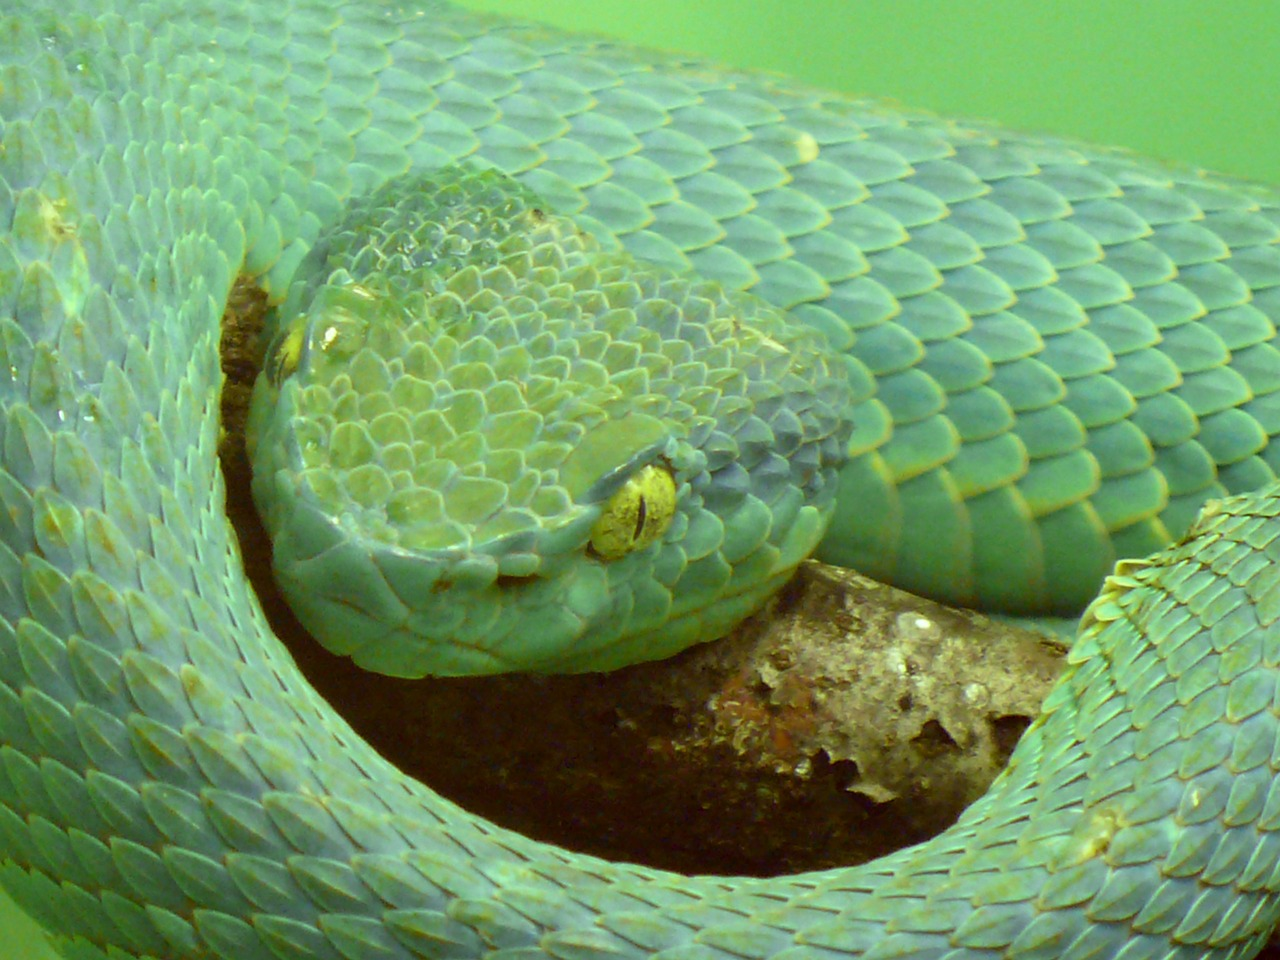
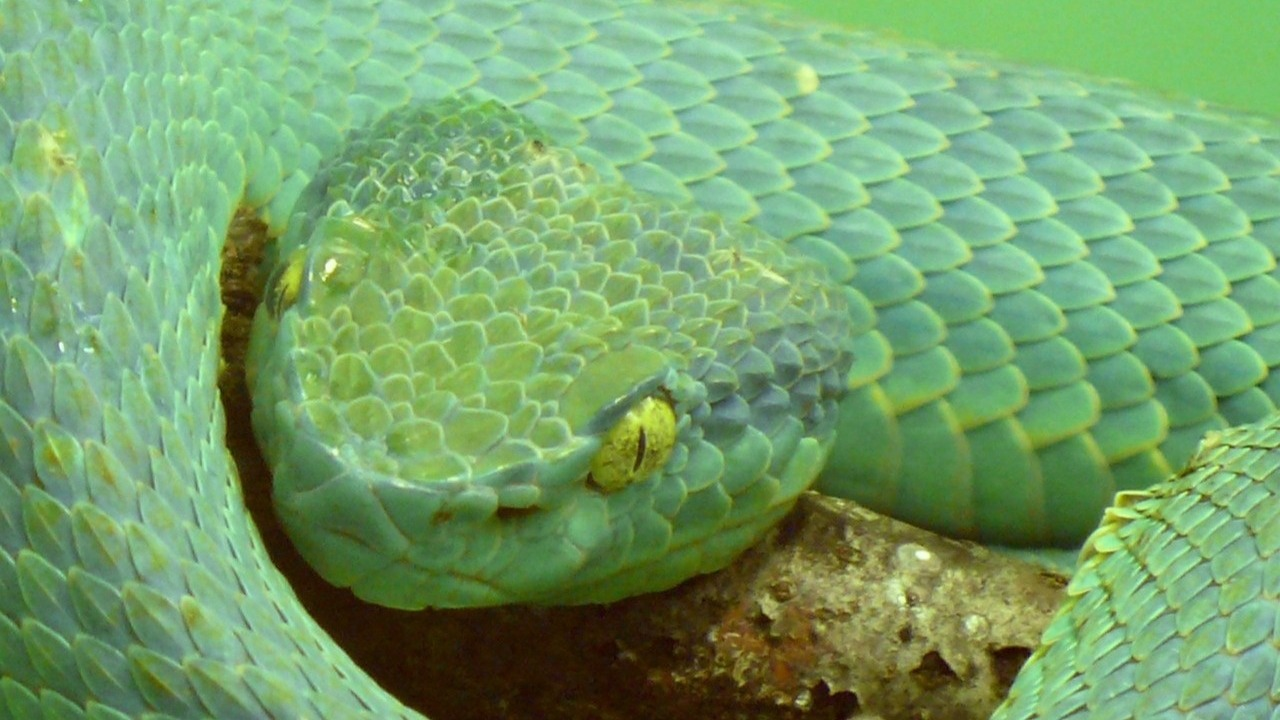
resizes assets, please check mobile responsiveness

diff --git a/snakefo.html b/snakefo.html
@@ -24,10 +24,10 @@
 			<div class="col-12">
 				<div class="row">
 					<h3 id="retic">Reticulated Python</h3>
-					<div class="col-6 order-2">
+					<div class="col-md-6 col-7 order-2">
 						<img src="assets/images/retic.jpg" data-toggle="modal" data-target="#reticmod" class="snakepic">
 					</div>
-					<div class="col-6 order-1">
+					<div class="col-md-6 col-5 order-1">
 						<h5>Classification: <span>Endangered</span></h5>
 						<h5>Endemic: <span>No</span></h5>
 						<h5>Range: <span>Gubat</span></h5>
@@ -47,7 +47,7 @@
 				<div class="row">
 					<h3 id="phcob">Philippine Cobra</h3>
 					<div class="col-md-6 col-7 order-2">
-						<img src="assets/images/phcobra.png" data-toggle="modal" data-target="#phcobmod" class="snakepic">
+						<img src="assets/images/phcob.jpg" data-toggle="modal" data-target="#phcobmod" class="snakepic">
 					</div>
 					<div class="col-md-6 col-5 order-1">					
 						<h5>Classification: <span>Near Threatened</span></h5>
@@ -69,7 +69,7 @@
 				<div class="row">
 						<h3 id="samcob">Samar Cobra</h3>
 					<div class="col-md-6 col-7 order-2">
-						<img src="assets/images/samarcob.jpg" data-toggle="modal" data-target="#srcobmod" class="snakepic">
+						<img src="assets/images/samarcobsm.jpg" data-toggle="modal" data-target="#srcobmod" class="snakepic">
 					</div>
 					<div class="col-md-6 col-5 order-1">
 						<h5>Classification: <span>Least Concern</span></h5>
@@ -179,7 +179,7 @@
 					<span>&times;</span>
 				</button>
 				<figure>
-					<img src="assets/images/phcobra.png" class="snakepic">
+					<img src="assets/images/phcob.jpg" class="snakepic">
 					<figcaption>
 						<p>Image courtesy of wikipedia</p>
 					</figcaption>
@@ -195,7 +195,7 @@
 					<span>&times;</span>
 				</button>
 				<figure>
-					<img src="assets/images/samarcob.jpg" class="snakepic">
+					<img src="assets/images/samarcobsm.jpg" class="snakepic">
 					<figcaption>
 						<p>Image courtesy of wikipedia</p>
 					</figcaption>

diff --git a/snakes.html b/snakes.html
@@ -67,37 +67,37 @@
 				<div class="row">
 					<div class="gbox col-lg-4 col-6 mb-2">
 						<a href="snakefo.html#retic" target="snakeshow">
-							<img src="assets/images/sunglow.jpg" class="w-100">
+							<img src="assets/images/retic.jpg" class="w-100">
 							<h6>Reticulated Python</h6>
 						</a>
 					</div>
 					<div class="gbox col-lg-4 col-6 mb-2">
 						<a href="snakefo.html#phcob" target="snakeshow">						
-							<img src="assets/images/sunglow.jpg" class="w-100">
+							<img src="assets/images/phcob.jpg" class="w-100">
 							<h6>Philippine Cobra</h6>
 						</a>
 					</div>
 					<div class="gbox col-lg-4 col-6 mb-2">
 						<a href="snakefo.html#samcob" target="snakeshow">
-							<img src="assets/images/sunglow.jpg" class="w-100">
+							<img src="assets/images/samarcobsm.jpg" class="w-100">
 							<h6>Samar Cobra</h6>
 						</a>
 					</div>
 					<div class="gbox col-lg-4 col-6 mb-2">
 						<a href="snakefo.html#rat" target="snakeshow">
-							<img src="assets/images/sunglow.jpg" class="w-100">
+							<img src="assets/images/rat.jpg" class="w-100">
 							<h6>Red-tailed Rat Snake</h6>
 						</a>
 					</div>
 					<div class="gbox col-lg-4 col-6 mb-2">
 						<a href="snakefo.html#viper" target="snakeshow">
-							<img src="assets/images/sunglow.jpg" class="w-100">
+							<img src="assets/images/pitviper.jpg" class="w-100">
 							<h6>Pit Vipers</h6>
 						</a>
 					</div>
 					<div class="gbox col-lg-4 col-6 mb-2">
 						<a href="snakefo.html#krait" target="snakeshow">
-							<img src="assets/images/sunglow.jpg" class="w-100">
+							<img src="assets/images/seakrait.jpg" class="w-100">
 							<h6>Sea Kraits</h6>
 						</a>
 					</div>
